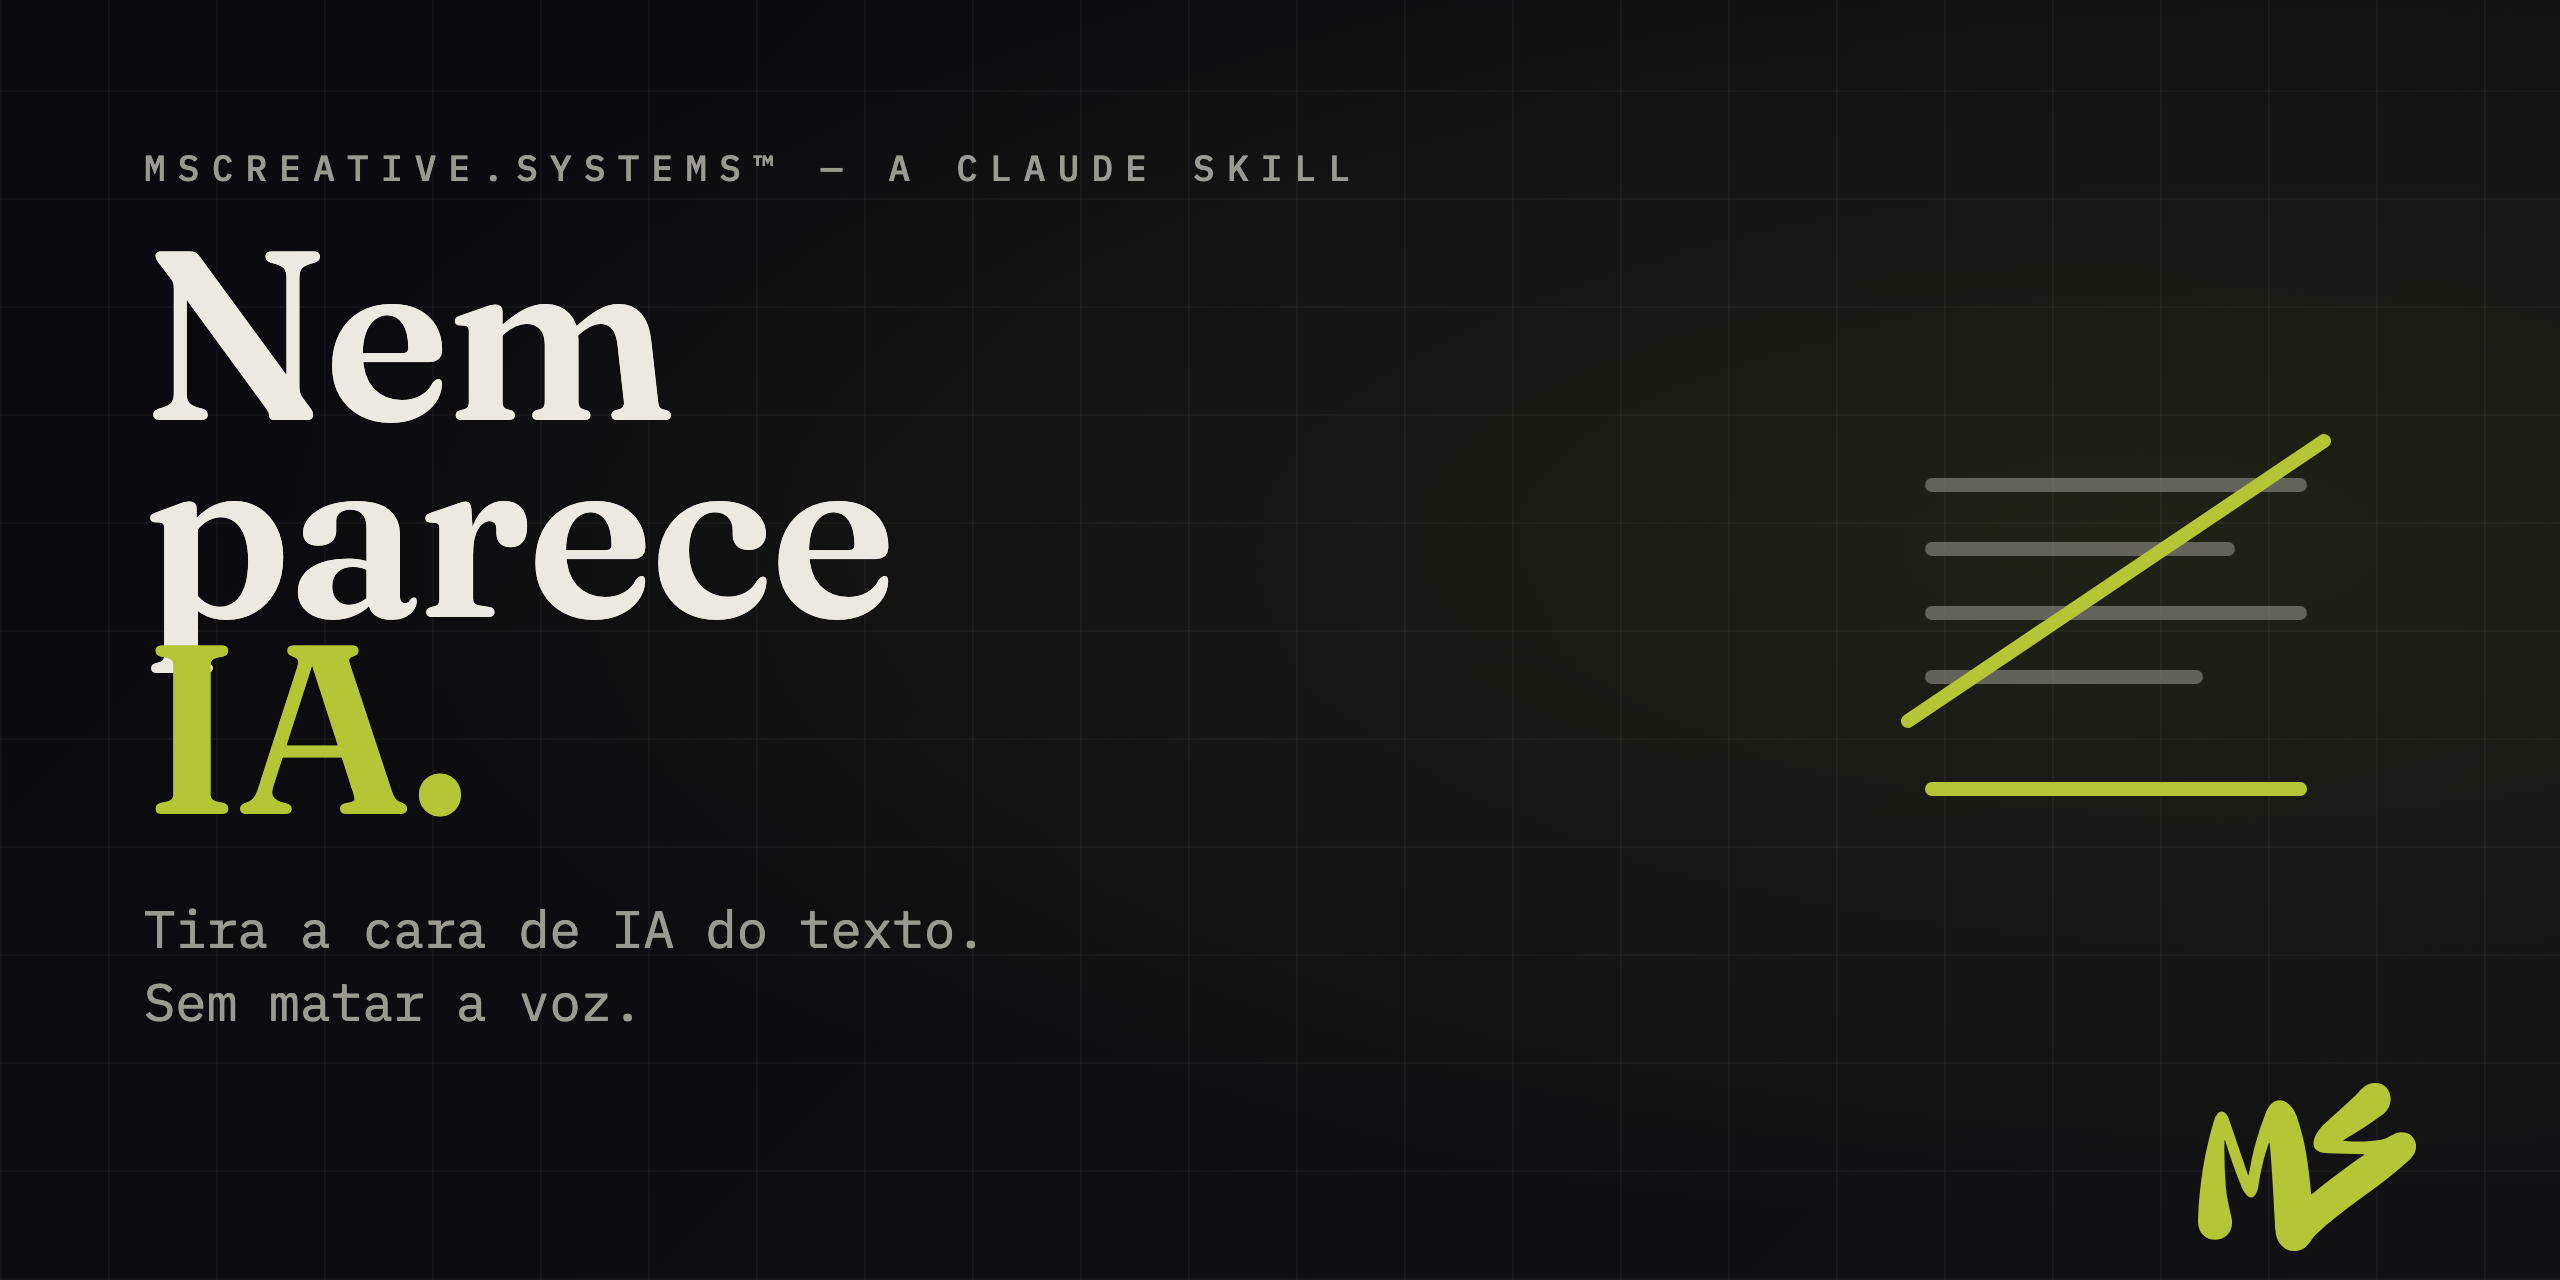
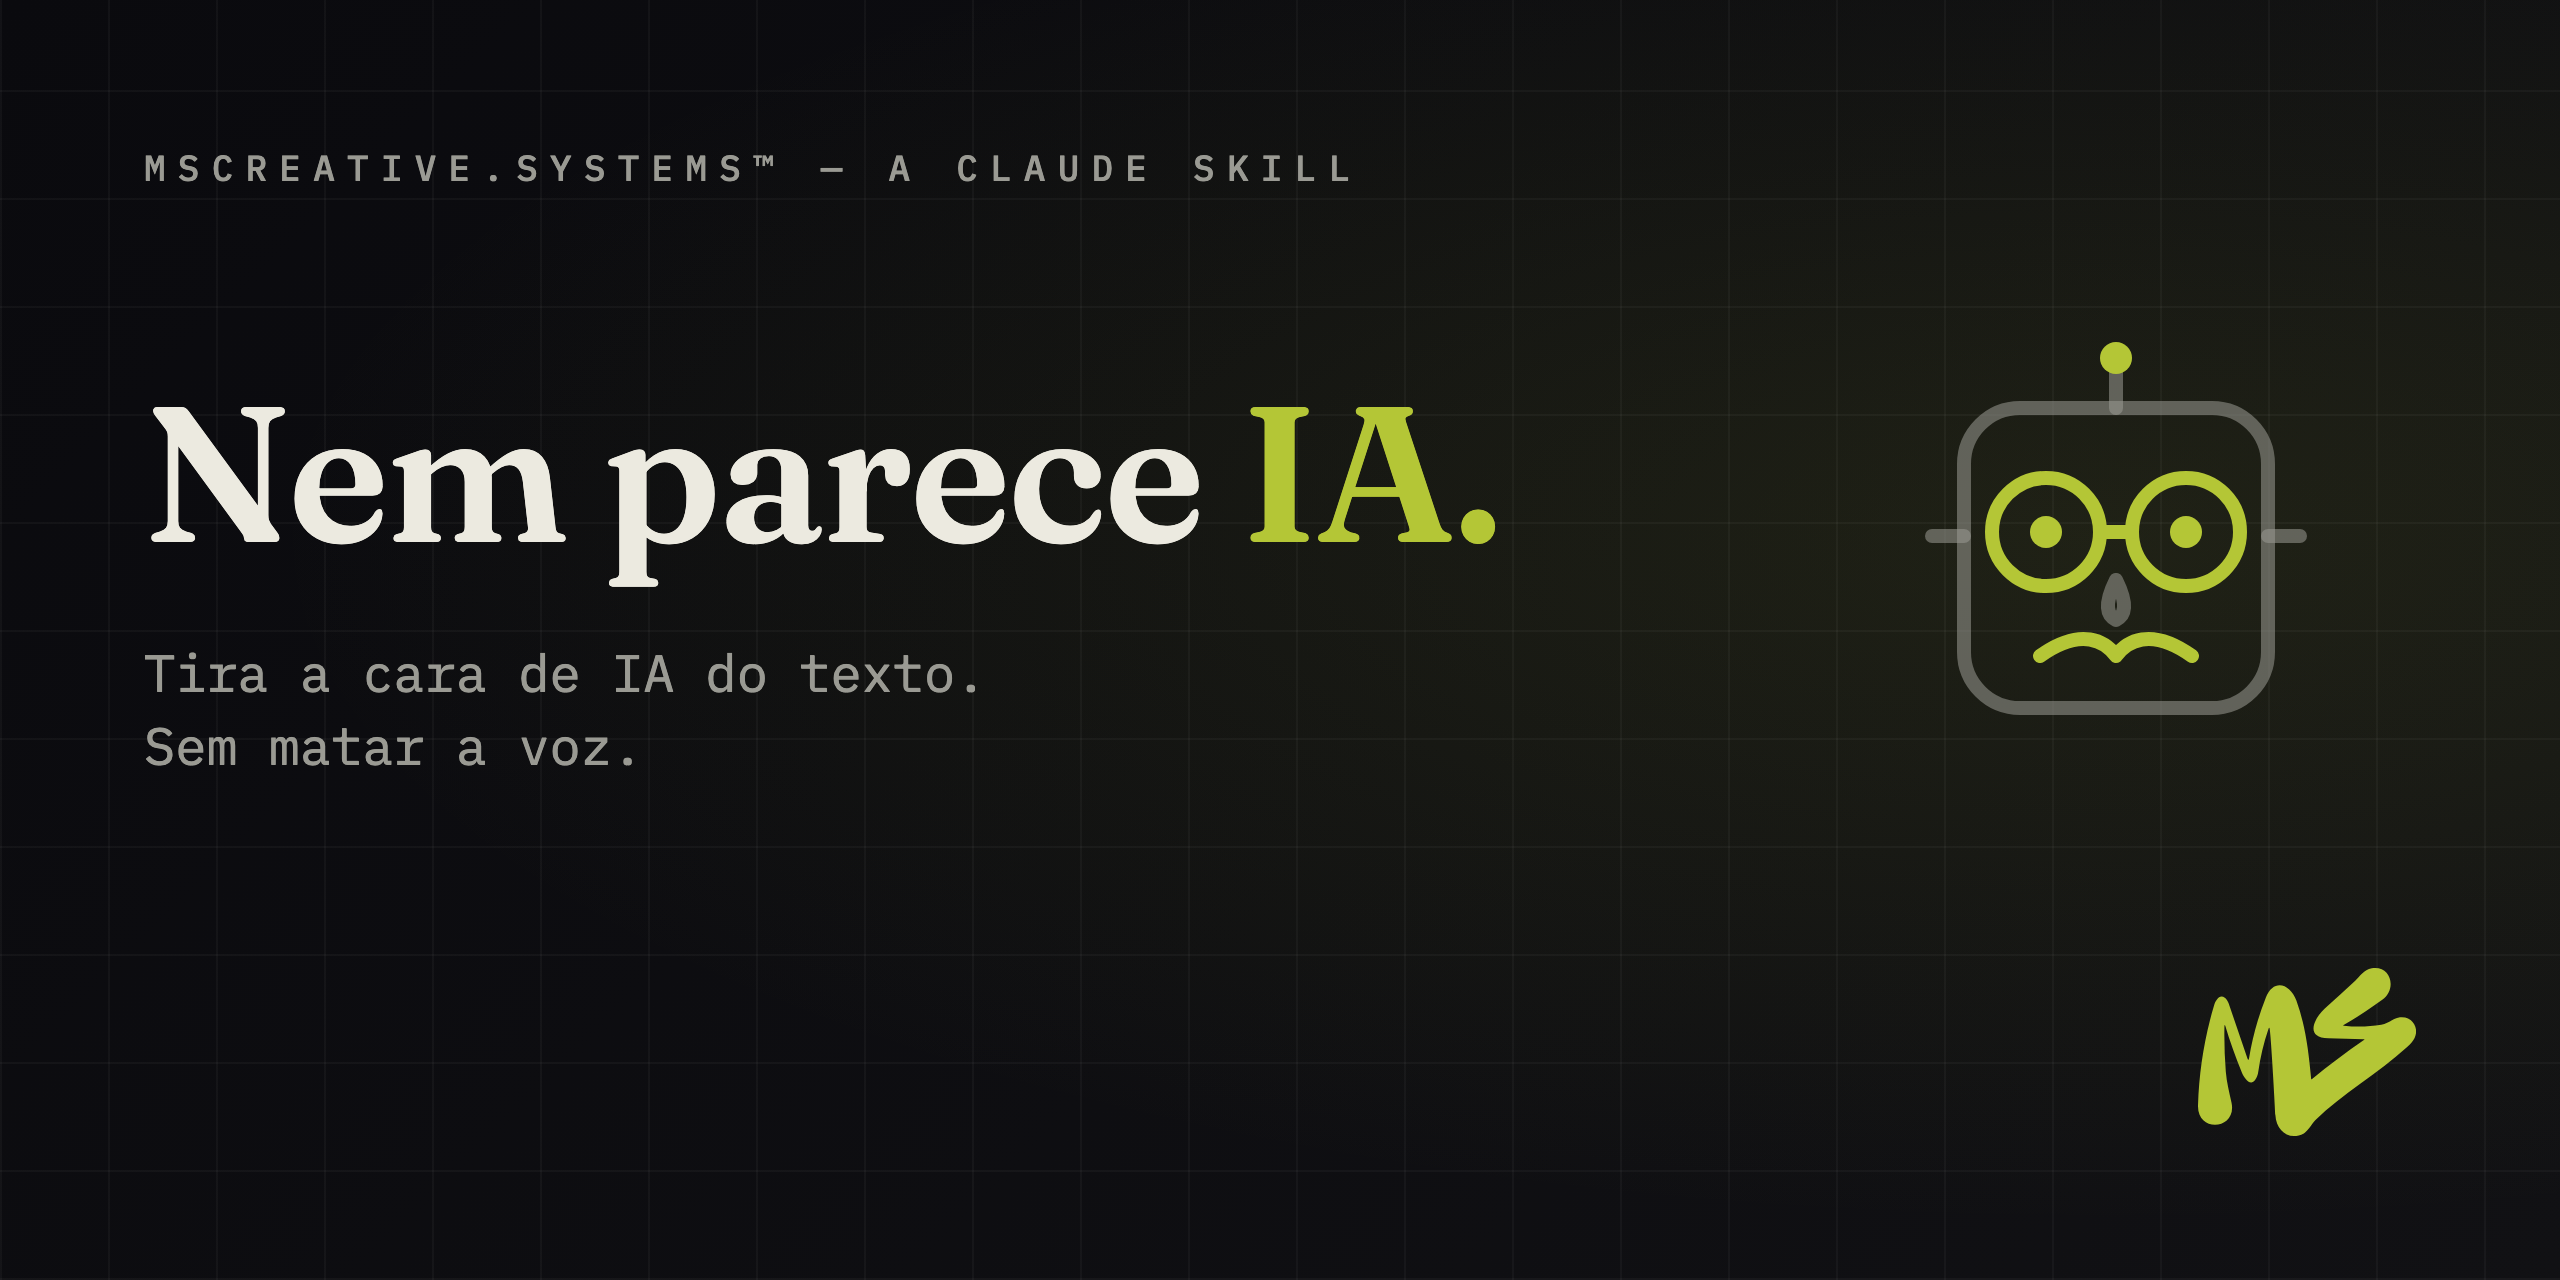
design(card): headline 'Nem parece IA.' em linha única + motivo robô disfarçado
IA em maiúscula, single-line (sem sobreposição). Motivo cleanup → robot-disguise
(cabeça de robô de óculos e bigode — a IA disfarçada de gente).

diff --git a/assets/social-preview.html b/assets/social-preview.html
@@ -1,7 +1,8 @@
 <!doctype html>
 <!-- Social preview 1280×640 — instância do gabarito DS V3.0 (CLAUDE_OUTPUTS/card-gabarito).
      Render: Chrome headless, --window-size=1280,640 --force-device-scale-factor=2 → 2560×1280.
-     Preset: nem-parece-ia · motivo cleanup (rascunho riscado → linha limpa) · variante open. -->
+     Preset: nem-parece-ia · motivo robot-disguise (robô de óculos e bigode) · variante open.
+     Headline em UMA única linha: "Nem parece IA." (IA maiúscula, lima). -->
 <html lang="pt-BR">
 <head>
 <meta charset="utf-8">
@@ -32,11 +33,11 @@
     justify-content:space-between;z-index:2}
   .kicker{font-size:18px;font-weight:500;letter-spacing:.34em;text-transform:uppercase;color:var(--mono)}
   .mid{display:flex;align-items:center;justify-content:space-between;gap:40px;flex:1;margin:22px 0}
-  .copy{max-width:58%}
+  .copy{max-width:72%}
   .headline{font-family:'Fraunces',serif;font-weight:600;font-variation-settings:'opsz' 36,'wght' 600;
-    line-height:.82;letter-spacing:-.01em;font-size:120px}
-  .headline .l1{display:block;color:var(--cream)}
-  .headline .l2{display:block;color:var(--accent);font-style:normal;font-weight:600}
+    line-height:1;letter-spacing:-.01em;font-size:96px;white-space:nowrap}
+  .headline .l1{color:var(--cream)}
+  .headline .l2{color:var(--accent);font-style:normal;font-weight:600}
   .tagline{margin-top:34px;font-size:26px;line-height:1.4;color:var(--mono);max-width:30ch}
   .motif{flex:0 0 auto;width:300px;height:300px;display:flex;align-items:center;justify-content:center}
   .motif svg{width:100%;height:100%}
@@ -54,20 +55,23 @@
       <div class="kicker">MSCREATIVE.SYSTEMS™ — A CLAUDE SKILL</div>
       <div class="mid">
         <div class="copy">
-          <div class="headline">
-            <span class="l1">Nem parece</span>
-            <span class="l2">IA.</span>
-          </div>
+          <div class="headline"><span class="l1">Nem parece </span><span class="l2">IA.</span></div>
           <div class="tagline">Tira a cara de IA do texto.<br>Sem matar a voz.</div>
         </div>
         <div class="motif">
           <svg viewBox="0 0 300 300">
-            <line class="gy" x1="58" y1="74" x2="242" y2="74"/>
-            <line class="gy" x1="58" y1="106" x2="206" y2="106"/>
-            <line class="gy" x1="58" y1="138" x2="242" y2="138"/>
-            <line class="gy" x1="58" y1="170" x2="190" y2="170"/>
-            <line class="ln" x1="46" y1="192" x2="254" y2="52"/>
-            <line class="ln" x1="58" y1="226" x2="242" y2="226"/>
+            <line class="gy" x1="150" y1="64" x2="150" y2="44"/>
+            <circle class="acf" cx="150" cy="39" r="8"/>
+            <rect class="gy" x="74" y="64" width="152" height="150" rx="28"/>
+            <line class="gy" x1="74" y1="128" x2="58" y2="128"/>
+            <line class="gy" x1="226" y1="128" x2="242" y2="128"/>
+            <circle class="ln" cx="115" cy="126" r="27"/>
+            <circle class="ln" cx="185" cy="126" r="27"/>
+            <line class="ln" x1="142" y1="126" x2="158" y2="126"/>
+            <circle class="acf" cx="115" cy="126" r="8"/>
+            <circle class="acf" cx="185" cy="126" r="8"/>
+            <path class="gy" d="M150 150 q-8 16 0 20 q8 -4 0 -20"/>
+            <path class="ln" d="M112 188 C133 173,145 181,150 188 C155 181,167 173,188 188" stroke-width="9"/>
           </svg>
         </div>
       </div>
